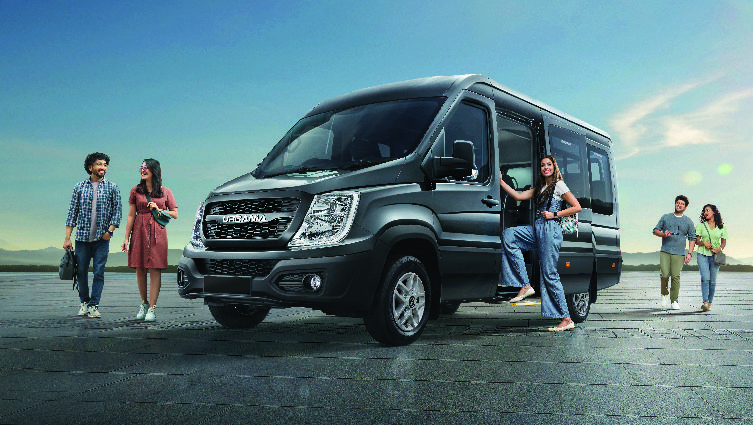
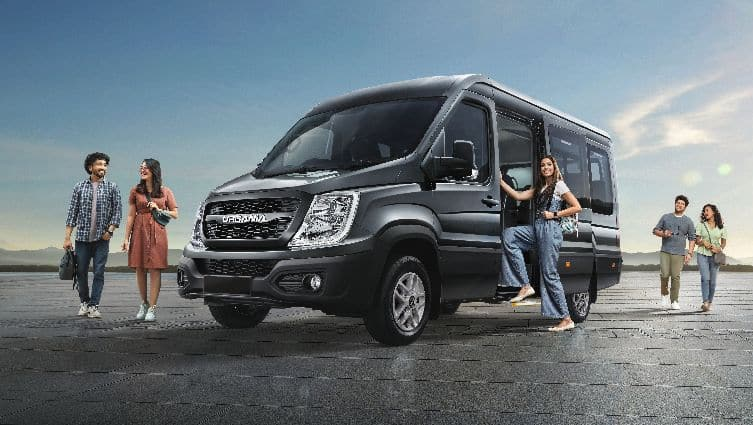
Optimize performance: compress images (~40MB -> ~2MB), render only active film scene, lazy-load offscreen images

diff --git a/src/components/Film.jsx b/src/components/Film.jsx
@@ -36,6 +36,8 @@ function KenImage({ src, start, end, focal, z, x, y, T }) {
     <img
       src={src}
       alt=""
+      loading="lazy"
+      decoding="async"
       className={styles.kenImg}
       style={{
         objectPosition: focal,
@@ -54,6 +56,8 @@ function Inset({ src, start, end, T }) {
       <img
         src={src}
         alt=""
+        loading="lazy"
+        decoding="async"
         className={styles.insetImg}
         style={{ transform: `scale(${lerp(1.14, 1.02, sstep(start, end, T))})` }}
       />
@@ -108,6 +112,8 @@ function OpeningScene({ start, end, T }) {
       <img
         src={filmOpening.bg}
         alt=""
+        loading="lazy"
+        decoding="async"
         className={styles.openingImg}
         style={{ transform: `scale(${lerp(1.14, 1.24, p)})`, opacity: sstep(start, start + 0.6, T) * out }}
       />
@@ -137,6 +143,8 @@ function CloseScene({ start, end, T }) {
       <img
         src="/assets/real-exterior-clean.jpg"
         alt=""
+        loading="lazy"
+        decoding="async"
         className={styles.closeImg}
         style={{ transform: `scale(${lerp(1.16, 1.06, p)})`, opacity: sstep(start, start + 0.55, T) }}
       />
@@ -241,14 +249,21 @@ export default function Film() {
   const op = seg("Opening");
   const clo = seg("Close");
 
+  // Each scene's own fade in/out fully resolves to opacity 0 outside its
+  // [start, end) window, so only the scene currently active needs to be
+  // mounted — this keeps the rAF-driven re-render cheap (one scene's worth
+  // of DOM/paint instead of all nine stacked scenes every frame).
+  const active = (start, end) => T >= start - 0.02 && T < end + 0.02;
+
   return (
     <div ref={containerRef} className={styles.stage}>
-      <OpeningScene start={op[0]} end={op[1]} T={T} />
+      {active(op[0], op[1]) && <OpeningScene start={op[0]} end={op[1]} T={T} />}
       {filmStandardScenes.map((d) => {
         const s = seg(d.name);
+        if (!active(s[0], s[1])) return null;
         return <SceneBlock key={d.name} d={d} start={s[0]} end={s[1]} T={T} />;
       })}
-      <CloseScene start={clo[0]} end={clo[1]} T={T} />
+      {active(clo[0], clo[1]) && <CloseScene start={clo[0]} end={clo[1]} T={T} />}
       <Persistent T={T} />
     </div>
   );

diff --git a/src/components/FeaturesAnatomy.jsx b/src/components/FeaturesAnatomy.jsx
@@ -67,6 +67,8 @@ export default function FeaturesAnatomy() {
                 src="/assets/urbania-exploded.png"
                 alt="Exploded view of the Force Motors Urbania showing engine, cockpit, seats, glass, doors and chassis"
                 className={styles.diagramImg}
+                loading="lazy"
+                decoding="async"
               />
 
               <div

diff --git a/src/components/Hero.jsx b/src/components/Hero.jsx
@@ -9,6 +9,8 @@ export default function Hero() {
         src="/assets/real-hero.jpg"
         alt="Force Motors Urbania parked at dusk beside a modern building with business travellers boarding"
         className={styles.bgImg}
+        fetchPriority="high"
+        decoding="async"
       />
       <div className={styles.scrim} />
 
